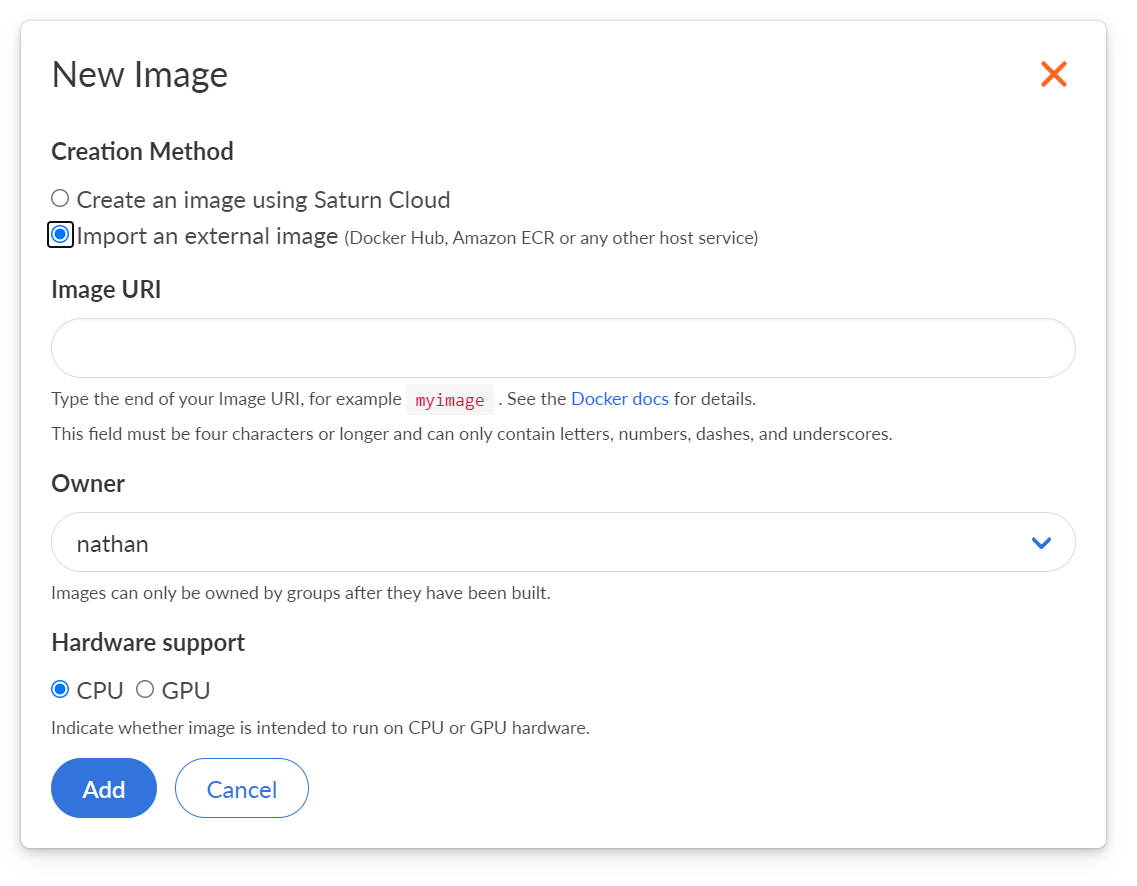
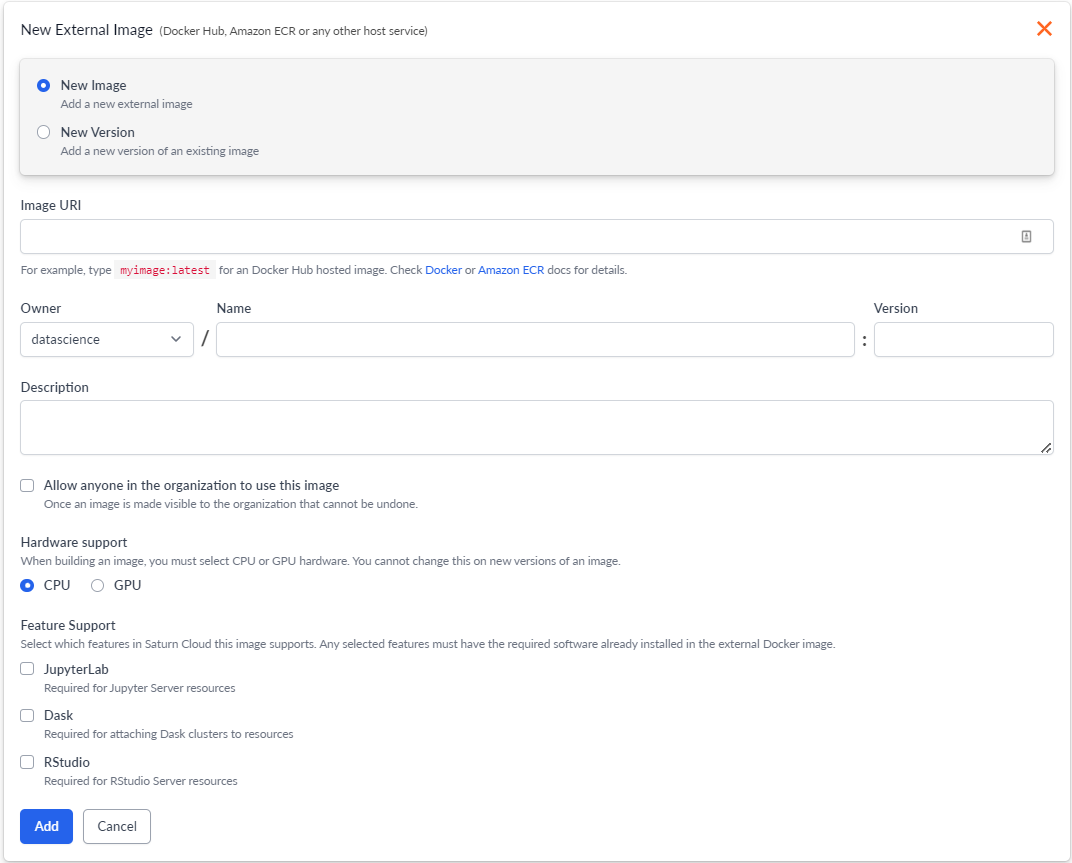
Regenerating markdown

diff --git a/docs/Using Saturn Cloud/manage-images/build-images/import-images.md b/docs/Using Saturn Cloud/manage-images/build-images/import-images.md
@@ -2,14 +2,6 @@
 
 If you already have a Docker image in your personal or business repository, you can easily add it to Saturn Cloud.
 
-Select **Images** in the Saturn Cloud toolbar. From here, you'll see the blue **New Image** button at the top right of the screen. Click this, and you'll be taken to a form. 
-
-There, select **Import an external image**, and fill in the correct **Image URI** that leads to your image.
-
-![New image form with Import external image selected](/images/docs/import-external-image.png "doc-image")
-
-Then select the correct **Owner** of the image and whether it is intended for CPU or GPU instances.
-
 ## Docker Image Requirements
 
 Docker images must have certain software installed, depending on what type of resource they are being used for.
@@ -21,7 +13,7 @@ Jupyter servers must have Python and JupyterLab installed in a particular way us
 
 1. Conda installed in `/opt/conda` with Python ≥ 3.7.
 2. (optional) `sshd` installed on the system.
-3. Your custom environment installed in `/opt/conda/envs/saturn` -- This can contain anything you wants to use, but it should contain at least `ipykernel`. 
+3. Your custom environment installed in `/opt/conda/envs/saturn` -- This can contain anything you wants to use, but it should contain at least `ipykernel`.
 4. `/opt/conda/envs/saturn` registered with Jupyter -- Do this with the following code:
 
 ```bash
@@ -39,7 +31,7 @@ These steps are not required but will make the user experience better:
 7. Set the PATH with the following code:
 
 ```bash
-        PATH= /opt/conda/envs/saturn/bin:/opt/conda/bin:${PATH} 
+        PATH= /opt/conda/envs/saturn/bin:/opt/conda/bin:${PATH}
 ```
 
 8. Make sure Python environments are owned by the jovyan user.
@@ -50,10 +42,10 @@ RStudio servers must have R, RStudio, and Python all installed.
 
 1. Conda installed in `/opt/conda` with Python ≥ 3.7.
 2. `sshd` installed on the system.
-4. A user named `jovyan` with `uid=1000` and their home directory created.
-5. R installed to either `/usr/lib/R` or `/usr/local/lib/R`. The `jovyan` user must have recursive ownership and read/write access to the folder.
-6. RStudio Server Open Source installed, with configuration files configured to the minimums matching those in [saturncloud/saturnbase-rstudio](https://github.com/saturncloud/images/tree/main/saturnbase-rstudio).
-7. The Renviron file located at either `/usr/lib/R/etc/Renviron` or `/usr/local/lib/R/etc/Renviron` must be modified to include the line below. This ensures R will correctly read the installed packages when using RStudio. 
+3. A user named `jovyan` with `uid=1000` and their home directory created.
+4. R installed to either `/usr/lib/R` or `/usr/local/lib/R`. The `jovyan` user must have recursive ownership and read/write access to the folder.
+5. RStudio Server Open Source installed, with configuration files configured to the minimums matching those in [saturncloud/saturnbase-rstudio](https://github.com/saturncloud/images/tree/main/saturnbase-rstudio).
+6. The Renviron file located at either `/usr/lib/R/etc/Renviron` or `/usr/local/lib/R/etc/Renviron` must be modified to include the line below. This ensures R will correctly read the installed packages when using RStudio.
 
 ```
 R_LIBS=/usr/local/lib/R:/usr/local/lib/R/site-library:/usr/lib/R/site-library:/usr/lib/R/library
@@ -66,3 +58,73 @@ The requirements for job and deployment resources are simpler than the other typ
 1. Conda installed in `/opt/conda` with Python ≥ 3.7.
 2. `sshd` installed on the system.
 3. A user named `jovyan` with `uid=1000` and their home directory created.
+
+## Adding the Image to Saturn Cloud
+
+External images can be added to Saturn Cloud using two methods: the UI or the API. The UI is useful for one-off image additions, while the API can be used as part of a CI/CD pipeline for adding new images.
+
+### Adding an image using the UI
+
+Select **Images** in the Saturn Cloud toolbar. From here, you'll see the blue **Add External Image** button at the top right of the screen. Click this, and you'll be taken to a form.
+
+There, select whether the image is a new image or a new version of an existing image, and fill in the correct **Image URI** that leads to your image.
+
+![New external image form](/images/docs/import-external-image.png "doc-image")
+
+Then select the correct **Owner** of the image, whether it is intended for CPU or GPU instances, and which features the image supports (i.e., JupyterLab, RStudio, Dask).
+
+### Adding an image using the API
+
+Use [Saturn Cloud recipes](https://saturncloud.io/docs/using-saturn-cloud/recipes/) to add images via the API.
+
+> **Note** - these instructions will only work for Saturn Cloud versions that are greater than or equal to 2022.04.01. Please contact support for instructions that will work on prior Saturn Cloud versions.
+
+First, define the image recipe in json format. Below you can see an example of the images recipe. This particular example adds two images: one titled "saturn" with a version called "2021.11.10" and another titled "saturn-rstudio" with versions "2021.11.10" and "2021.12.1". You can add a single version of an image or multiple versions in a similar manner. See [the full example and schema](https://github.com/saturncloud/recipes/tree/main/images) for complete image recipe specifications.
+
+```json
+{
+    "images": [
+        {
+            "name": "saturn",
+            "hardware_type": "cpu",
+            "versions": [
+                {
+                    "name": "2021.11.10",
+                    "image_uri": "public.ecr.aws/saturncloud/saturn:2021.11.10"
+                }
+            ],
+            "schema_version": "2022.04.01"
+        },
+        {
+            "name": "saturn-rstudio",
+            "supports": ["dask", "rstudio-opensource"],
+            "hardware_type": "cpu",
+            "versions": [
+                {
+                    "name": "2021.11.10",
+                    "image_uri": "public.ecr.aws/saturncloud/saturn-rstudio:2021.11.10"
+                },
+                {
+                    "name": "2021.12.01",
+                    "image_uri": "public.ecr.aws/saturncloud/saturn-rstudio:2021.12.01"
+                }
+            ],
+            "schema_version": "2022.04.01"
+        }
+    ]
+}
+```
+
+Additionally, you will need a header containing the User Token of an administrator account in the below format. You can find your User Token under **Username > User Settings > User Token**.
+
+```
+"Authorization: Bearer <User Token>"
+```
+
+Once you have the json recipe and header, POST it to: `<Your Saturn Cloud Base URL>/api/recipes/apply`
+
+For example: `https://app.community.saturnenterprise.io/api/recipes/apply`
+
+The image will then be available to use in your Saturn Cloud resources under your default organization.
+
+> **Note** - If you want to get a list of the images currently available in your Saturn Cloud organization, run a GET command to `<Your Saturn Cloud Base URL>/api/recipes` using your authorization header.
